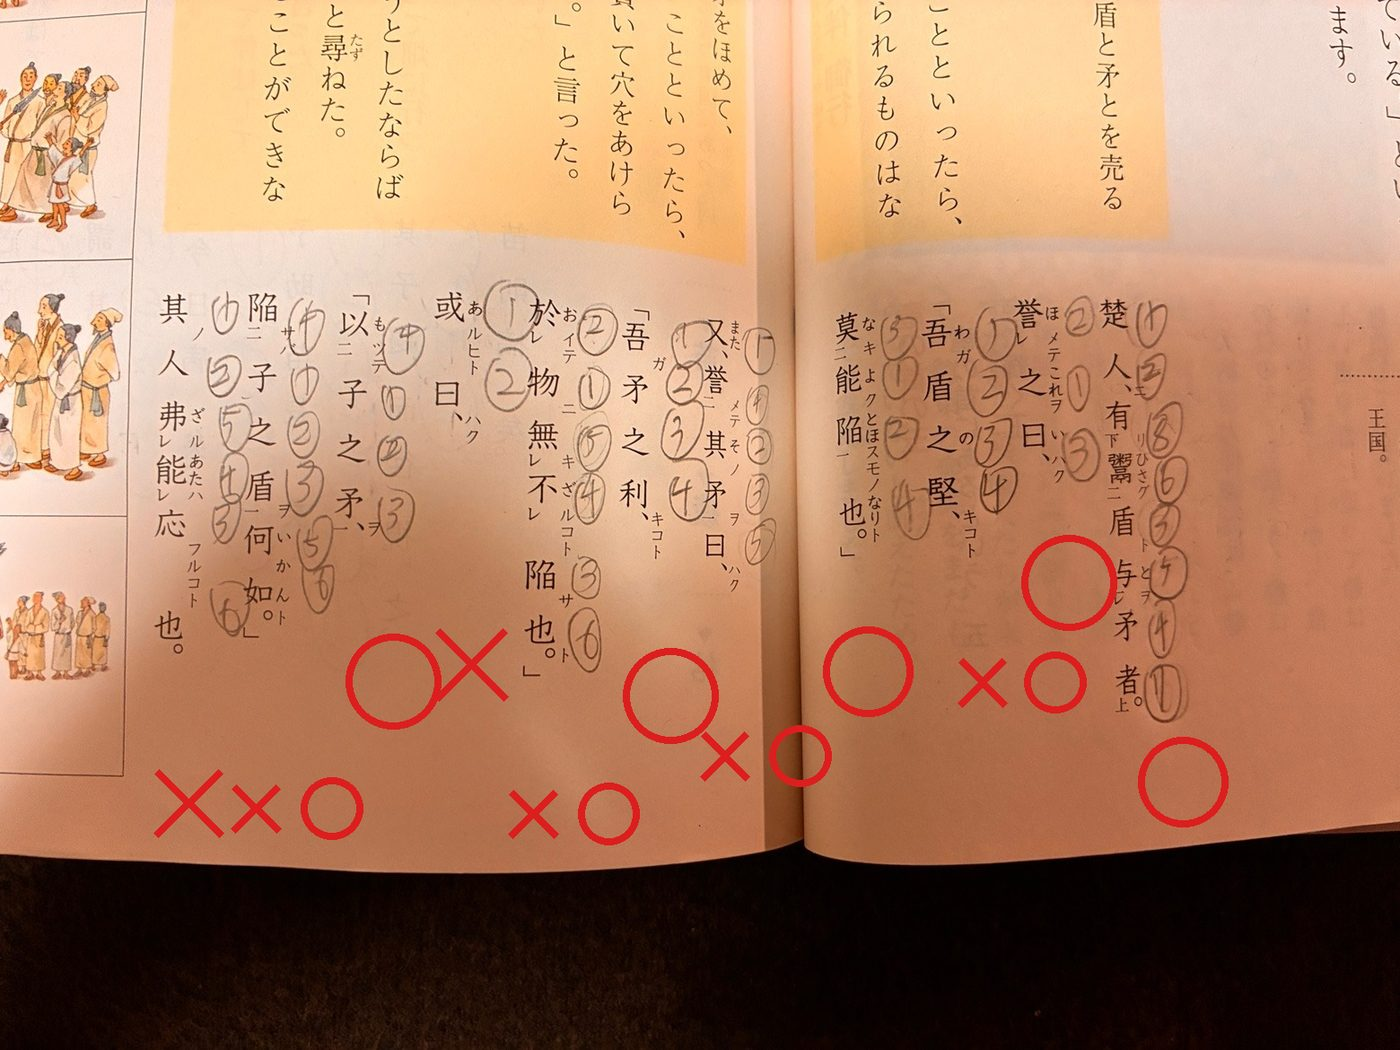
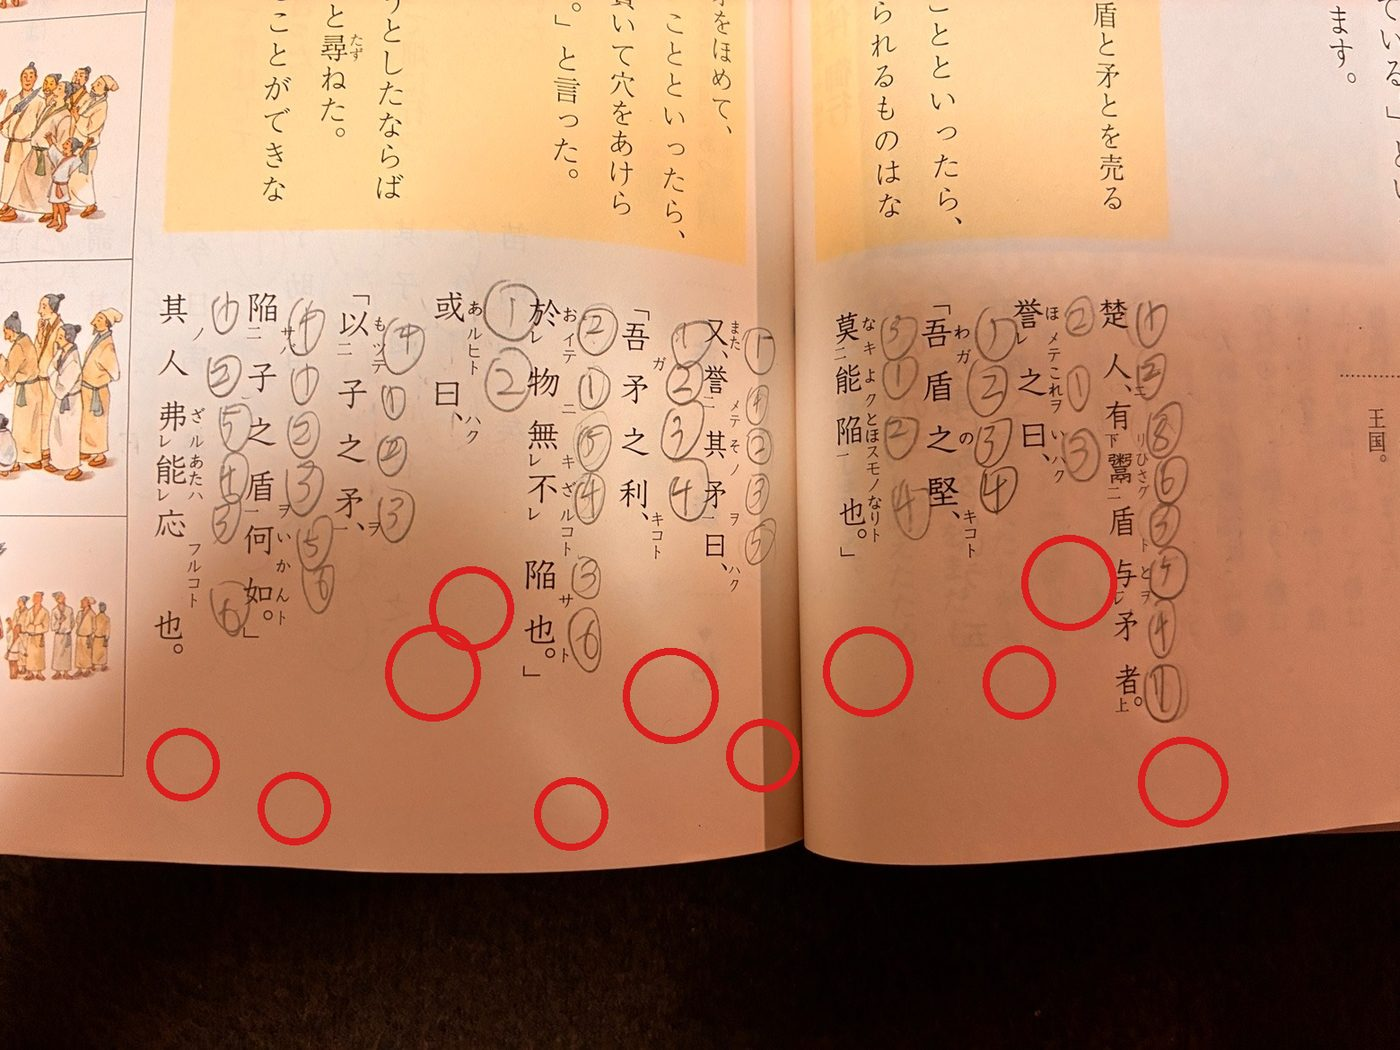
一周の続きから再開できるように（全部の問題）／漢文は間違えたら確認用にもう一度（記録なし）／矛盾の答え合わせを全問○に訂正

diff --git a/apps/kokugo-kanbun.html b/apps/kokugo-kanbun.html
@@ -244,9 +244,12 @@ saveJSON(FAIL_KEY, failCounts);
 
 var currentDirMode = "a";   /* a / b / mix */
 var currentPat = "all";
-var quizList = [];          /* {s, dir} */
+var quizList = [];          /* {s, dir, confirm} */
 var quizIdx = 0;
 var quizCorrect = 0;
+var quizReal = 0;           /* 確認コピーを除いた問題数 */
+var ROUND_KEY = "ryunosuke.kokugo-kanbun.round.v1";
+var roundDone = loadJSON(ROUND_KEY);  /* 「全部の問題」で一周した分の記録 */
 var cur = null;             /* 現在の問題 {s, dir} */
 var taps = [];              /* 記号→数字：タップした字の位置の並び */
 var myMarks = {};           /* 数字→記号：位置→記号 */
@@ -302,7 +305,8 @@ function renderHome(){
   });
   el("progress-text").textContent = "全" + SENTENCES.length + "文 × 2種類 = " + total + "問中、" + done + "問 できました。";
   var all = poolItems("all"), retry = poolItems("retry"), ever = poolItems("ever");
-  el("all-count").textContent = all.length + "問";
+  var remain = all.filter(function(it){ return !roundDone[keyOf(it.s, it.dir)]; }).length;
+  el("all-count").textContent = all.length + "問" + (remain > 0 && remain < all.length ? "（一周の途中：残り" + remain + "問から再開）" : "");
   el("retry-count").textContent = retry.length + "問";
   el("ever-count").textContent = ever.length + "問";
   el("start-retry").classList.toggle("disabled", retry.length === 0);
@@ -318,9 +322,19 @@ function showScreen(name){
 
 function startQuiz(mode){
   var items = poolItems(mode);
-  if (mode === "all") items = shuffle(items);
+  if (mode === "all"){
+    /* 一周の続きから：まだやっていない問題だけを出す。一周終わっていたらリセットして全部から */
+    var remaining = items.filter(function(it){ return !roundDone[keyOf(it.s, it.dir)]; });
+    if (remaining.length === 0){
+      items.forEach(function(it){ delete roundDone[keyOf(it.s, it.dir)]; });
+      saveJSON(ROUND_KEY, roundDone);
+      remaining = items;
+    }
+    items = shuffle(remaining);
+  }
   if (items.length === 0) return;
   quizList = items;
+  quizReal = items.length;
   quizIdx = 0;
   quizCorrect = 0;
   showScreen("quiz");
@@ -334,13 +348,13 @@ function renderQuestion(){
   myMarks = {};
   checked = false;
   el("q-count").textContent = (quizIdx + 1) + " / " + quizList.length + " 問";
-  el("q-dir").textContent = d === "a" ? "記号 → 数字" : "数字 → 記号";
+  el("q-dir").textContent = (cur.confirm ? "もう一度（記録には入りません）・" : "") + (d === "a" ? "記号 → 数字" : "数字 → 記号");
   el("q-inst").textContent = d === "a"
     ? "返り点を見て、読む順番に字をタップして番号をふろう。"
     : "下の数字が読む順番です。字をタップして、合う返り点を付けよう（タップするたびに記号が切り替わります）。全部の字につけ終わったら答え合わせ。";
   var fc = failCounts[keyOf(s, d)] || 0;
   var badge = el("fail-badge");
-  if (fc >= 1){
+  if (fc >= 1 && !cur.confirm){
     badge.style.display = "block";
     badge.textContent = "この問題は今まで " + fc + "回 できなかった";
   } else {
@@ -451,19 +465,28 @@ function doCheck(){
   checked = true;
   el("chars").classList.add("checked");
   var k = keyOf(s, d);
-  if (ok){
-    records[k] = "o";
-    quizCorrect++;
-  } else {
-    records[k] = "x";
-    failCounts[k] = (failCounts[k] || 0) + 1;
-    saveJSON(FAIL_KEY, failCounts);
+  var isConfirm = !!cur.confirm;
+  if (!isConfirm){
+    roundDone[k] = true;
+    saveJSON(ROUND_KEY, roundDone);
+    if (ok){
+      records[k] = "o";
+      quizCorrect++;
+    } else {
+      records[k] = "x";
+      failCounts[k] = (failCounts[k] || 0) + 1;
+      saveJSON(FAIL_KEY, failCounts);
+      /* まちがえた問題は、少しあとでもう一度出す（確認用：結果は記録に入れない） */
+      quizList.splice(Math.min(quizIdx + 3, quizList.length), 0, {s: s, dir: d, confirm: true});
+    }
+    saveJSON(REC_KEY, records);
   }
-  saveJSON(REC_KEY, records);
   var r = el("result");
   r.style.display = "block";
   r.className = "result " + (ok ? "ok" : "ng");
   r.innerHTML = (ok ? "⭕ 正解です！" : "❌ まちがいがあります。赤い字の下が正解です。") +
+    (isConfirm ? '<div class="small">確認のためのもう一度です。記録には入りません。</div>'
+               : (!ok ? '<div class="small">この問題は、このあともう一度出ます。</div>' : "")) +
     '<div class="yomi">読み下し：' + s.yomi + "</div>";
   el("edit-btns").style.display = "none";
   var nb = el("next-btn");
@@ -476,8 +499,8 @@ function nextQuestion(){
   if (quizIdx < quizList.length){
     renderQuestion();
   } else {
-    el("done-score").textContent = quizCorrect + " / " + quizList.length + " 問 正解";
-    el("done-msg").textContent = quizCorrect === quizList.length
+    el("done-score").textContent = quizCorrect + " / " + quizReal + " 問 正解";
+    el("done-msg").textContent = quizCorrect === quizReal
       ? "全問正解です。この調子でいきましょう。"
       : "バツになった問題は、トップの「バツのままの問題だけ」からもう一度できます。";
     showScreen("done");

diff --git a/apps/eigo-ittou.html b/apps/eigo-ittou.html
@@ -320,6 +320,19 @@
   }
   var records = loadRecords(); /* id -> true（できた） / false（できなかった） */
 
+  var ROUND_KEY = STORE_KEY.replace("records", "round");
+  function loadRound() {
+    try {
+      var raw = localStorage.getItem(ROUND_KEY);
+      var obj = raw ? JSON.parse(raw) : {};
+      return (obj && typeof obj === "object") ? obj : {};
+    } catch (e) { return {}; }
+  }
+  function saveRound() {
+    try { localStorage.setItem(ROUND_KEY, JSON.stringify(roundDone)); } catch (e) {}
+  }
+  var roundDone = loadRound(); /* 「全部の問題」で一周した分の記録 */
+
   var FAIL_KEY = STORE_KEY.replace("records", "failcounts");
   function loadFails() {
     try {
@@ -429,7 +442,19 @@
 
   /* ===== クイズ画面 ===== */
   function startQuiz() {
-    var pool = currentMode === "retry" ? failedItems(currentSet) : (currentMode === "ever" ? everItems(currentSet) : SETS[currentSet].items.slice());
+    var pool;
+    if (currentMode === "retry") pool = failedItems(currentSet);
+    else if (currentMode === "ever") pool = everItems(currentSet);
+    else {
+      /* 一周の続きから：まだやっていない問題だけを出す。一周終わっていたらリセットして全部から */
+      var full = SETS[currentSet].items.slice();
+      pool = full.filter(function (it) { return !roundDone[it.id]; });
+      if (pool.length === 0) {
+        full.forEach(function (it) { delete roundDone[it.id]; });
+        saveRound();
+        pool = full;
+      }
+    }
     if (pool.length === 0) return;
     order = currentMode === "all" ? (currentOrder === "shuffle" ? shuffle(pool) : pool.slice()) : pool.slice();
     pos = 0; roundOk = 0; roundNg = 0; roundSkip = 0;
@@ -526,6 +551,8 @@
     var it = order[pos];
     records[it.id] = false;
     saveRecords();
+    roundDone[it.id] = true;
+    saveRound();
     addFail(it.id);
     roundNg++;
     order.splice(Math.min(pos + 3, order.length), 0, { id: it.id, q: it.q, a: it.a, hint: it.hint, note: it.note, cat: it.cat, confirm: true });
@@ -546,6 +573,7 @@
     var it = order[pos];
     records[it.id] = ok;
     saveRecords();
+    if (!it.confirm) { roundDone[it.id] = true; saveRound(); }
     if (!ok && !it.confirm) addFail(it.id);
     if (ok) { roundOk++; } else {
       roundNg++;

diff --git a/apps/shakai-nihonshi-nara.html b/apps/shakai-nihonshi-nara.html
@@ -458,6 +458,19 @@
   }
   var records = loadRecords(); /* id -> true（できた） / false（できなかった） */
 
+  var ROUND_KEY = STORE_KEY.replace("records", "round");
+  function loadRound() {
+    try {
+      var raw = localStorage.getItem(ROUND_KEY);
+      var obj = raw ? JSON.parse(raw) : {};
+      return (obj && typeof obj === "object") ? obj : {};
+    } catch (e) { return {}; }
+  }
+  function saveRound() {
+    try { localStorage.setItem(ROUND_KEY, JSON.stringify(roundDone)); } catch (e) {}
+  }
+  var roundDone = loadRound(); /* 「全部の問題」で一周した分の記録 */
+
   var FAIL_KEY = STORE_KEY.replace("records", "failcounts");
   function loadFails() {
     try {
@@ -747,7 +760,19 @@
 
   /* ===== クイズ画面 ===== */
   function startQuiz() {
-    var pool = currentMode === "retry" ? failedItems(currentSet) : (currentMode === "ever" ? everItems(currentSet) : levelItems(currentSet).slice());
+    var pool;
+    if (currentMode === "retry") pool = failedItems(currentSet);
+    else if (currentMode === "ever") pool = everItems(currentSet);
+    else {
+      /* 一周の続きから：まだやっていない問題だけを出す。一周終わっていたらリセットして全部から */
+      var full = levelItems(currentSet).slice();
+      pool = full.filter(function (it) { return !roundDone[it.id]; });
+      if (pool.length === 0) {
+        full.forEach(function (it) { delete roundDone[it.id]; });
+        saveRound();
+        pool = full;
+      }
+    }
     if (pool.length === 0) return;
     order = currentMode === "all" ? (currentOrder === "shuffle" ? shuffle(pool) : pool.slice()) : pool.slice();
     pos = 0; roundOk = 0; roundNg = 0; roundSkip = 0;
@@ -824,6 +849,8 @@
     var it = order[pos];
     records[it.id] = false;
     saveRecords();
+    roundDone[it.id] = true;
+    saveRound();
     addFail(it.id);
     roundNg++;
     order.splice(Math.min(pos + 3, order.length), 0, { id: it.id, q: it.q, a: it.a, hint: it.hint, note: it.note, cat: it.cat, confirm: true });
@@ -844,6 +871,7 @@
     var it = order[pos];
     records[it.id] = ok;
     saveRecords();
+    if (!it.confirm) { roundDone[it.id] = true; saveRound(); }
     if (!ok && !it.confirm) addFail(it.id);
     if (ok) { roundOk++; } else {
       roundNg++;

diff --git a/apps/kokugo-hyakunin.html b/apps/kokugo-hyakunin.html
@@ -170,6 +170,8 @@ function saveJSON(key, obj){
 }
 var records = loadJSON(REC_KEY);
 var failCounts = loadJSON(FAIL_KEY);
+var ROUND_KEY = "ryunosuke.kokugo-hyakunin.round.v1";
+var roundDone = loadJSON(ROUND_KEY);  /* 「全部の問題」で一周した分の記録 */
 
 var ITEMS = []; /* {poem, pos} 全50通り */
 POEMS.forEach(function(p){
@@ -219,7 +221,9 @@ function renderHome(){
   var done = 0;
   ITEMS.forEach(function(it){ if (records[itemId(it)] === "o") done++; });
   el("progress-text").textContent = "全" + ITEMS.length + "問中、" + done + "問 できました。";
-  el("all-count").textContent = poolItems("all").length + "問（10首 × 隠れる場所5通り）";
+  var allItemsH = poolItems("all");
+  var remainH = allItemsH.filter(function(it){ return !roundDone[itemId(it)]; }).length;
+  el("all-count").textContent = allItemsH.length + "問（10首 × 隠れる場所5通り）" + (remainH > 0 && remainH < allItemsH.length ? "・一周の途中：残り" + remainH + "問から再開" : "");
   var r = poolItems("retry"), e = poolItems("ever");
   el("retry-count").textContent = r.length + "問";
   el("ever-count").textContent = e.length + "問";
@@ -246,6 +250,16 @@ function showScreen(name){
 function startQuiz(mode){
   var items = poolItems(mode);
   if (items.length === 0) return;
+  if (mode === "all"){
+    /* 一周の続きから：まだやっていない問題だけを出す。一周終わっていたらリセットして全部から */
+    var remaining = items.filter(function(it){ return !roundDone[itemId(it)]; });
+    if (remaining.length === 0){
+      items.forEach(function(it){ delete roundDone[itemId(it)]; });
+      saveJSON(ROUND_KEY, roundDone);
+      remaining = items;
+    }
+    items = remaining;
+  }
   quizList = mode === "all" ? shuffle(items) : items;
   quizIdx = 0;
   quizCorrect = 0;
@@ -324,6 +338,8 @@ function doCheck(){
   var correct = cur.poem.ku[cur.pos];
   var ok = curChoices[selected] === correct;
   var k = itemId(cur);
+  roundDone[k] = true;
+  saveJSON(ROUND_KEY, roundDone);
   if (ok){
     records[k] = "o";
     quizCorrect++;

diff --git a/notes/kokugo-kanbun-kotaeawase.html b/notes/kokugo-kanbun-kotaeawase.html
@@ -49,13 +49,8 @@
     <h2>矛盾</h2>
     <img src="../images/kanbun-kotaeawase-mujun.jpg" alt="矛盾の教科書ページに○×を付けた写真">
     <ul class="notes">
-      <li><span class="ng">×</span> 吾盾之堅：右側の組（吾1・盾2・之3・堅4）が正解です。左側の組は順番がちがいます。</li>
-      <li><span class="ng">×</span> 又誉其矛曰：右側の組（又1・其2・矛3・誉4・曰5）が正解です。左側の組は誉の位置がちがいます。</li>
-      <li><span class="ng">×</span> 於物無不陥也：右側の組（物1・於2・陥3・不4・無5・也6）が正解です。左側に書いた於1・物2は逆です。</li>
-      <li><span class="ng">×</span> 陥子之盾何如：右側の組（子1・之2・盾3・陥4・何5・如6）が正解です。左側の組は順番がちがいます。</li>
-      <li><span class="ng">×</span> 或謂之曰：数字が書いてありません。正解は或1・之2・謂3・曰4です。</li>
-      <li><span class="ng">×</span> 其人弗能応也：数字が書いてありません。正解は其1・人2・応3・能4・弗5・也6です。</li>
-      <li><span class="ok">○</span> 楚人有鬻盾與矛者、誉之曰、莫能陥也、吾矛之利、以子之矛は正解です。楚人有鬻盾與矛者は、與にレ点が付いているので、矛→與の順（與5・矛4）で合っています。</li>
+      <li><span class="ok">○</span> 全部の文が正解です。番号は各文の右側に書かれたものが答えです。</li>
+      <li><span class="ok">○</span> 楚人有鬻盾與矛者は、與にレ点が付いているので、矛→與の順（矛4・與5）で合っています。</li>
     </ul>
   </div>
 </main>
